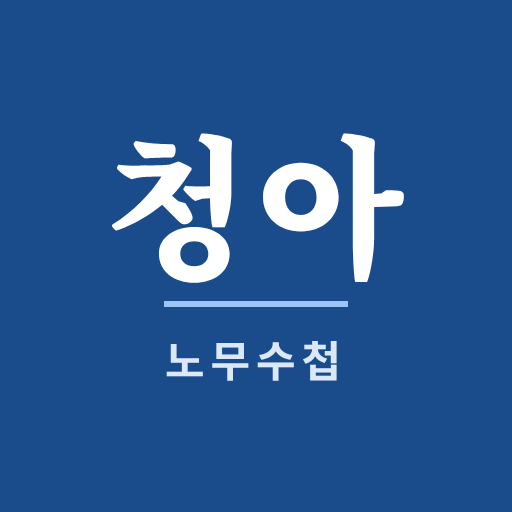
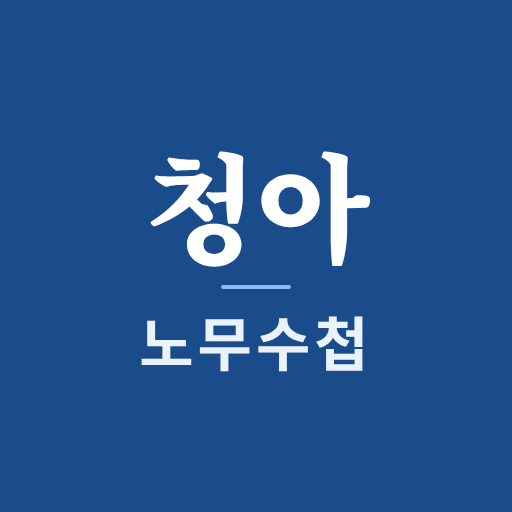
아이콘 비율 조정: 청아 축소, 노무수첩 확대
Claude-Session: https://claude.ai/code/session_01Uqf6varMtPearUrYnXMBFC

Changed region(s): [[0.2188, 0.25, 0.8125, 0.75]]

diff --git a/index.html b/index.html
@@ -11,15 +11,15 @@
 <meta name="apple-mobile-web-app-status-bar-style" content="black-translucent">
 <meta name="apple-mobile-web-app-title" content="청아 노무수첩">
 <link rel="manifest" href="manifest.webmanifest">
-<link rel="icon" type="image/png" sizes="32x32" href="icons/favicon-32.png?v=2">
-<link rel="apple-touch-icon" href="icons/apple-touch-icon.png?v=2">
+<link rel="icon" type="image/png" sizes="32x32" href="icons/favicon-32.png?v=3">
+<link rel="apple-touch-icon" href="icons/apple-touch-icon.png?v=3">
 <title>청아 노무수첩</title>
 <meta name="description" content="기준금액·계산기·지원금·행정해석을 한곳에. 청아노무법인">
 <meta property="og:type" content="website">
 <meta property="og:title" content="청아 노무수첩 | 청아노무법인">
 <meta property="og:description" content="기준금액·계산기·지원금·행정해석을 한곳에">
 <meta property="og:url" content="https://sagoclaim-tech.github.io/cheonga-labor/">
-<meta property="og:image" content="https://sagoclaim-tech.github.io/cheonga-labor/icons/icon-512.png?v=2">
+<meta property="og:image" content="https://sagoclaim-tech.github.io/cheonga-labor/icons/icon-512.png?v=3">
 <link rel="preconnect" href="https://fonts.googleapis.com">
 <link rel="stylesheet" href="https://fonts.googleapis.com/css2?family=Gowun+Batang:wght@700&family=IBM+Plex+Sans+KR:wght@400;500;600;700&family=IBM+Plex+Mono:wght@500;600&display=swap">
 <style>

diff --git a/sw.js b/sw.js
@@ -1,5 +1,5 @@
 /* 청아노무법인 앱 서비스워커: 화면과 기준 데이터는 항상 최신을 먼저 받고, 연결이 없으면 저장본을 씁니다. */
-const CACHE = "cheonga-v9";
+const CACHE = "cheonga-v10";
 const SHELL = ["./", "index.html", "data.json", "interp.json", "manifest.webmanifest", "icons/icon-192.png", "icons/icon-512.png", "icons/apple-touch-icon.png", "icons/favicon-32.png"];
 self.addEventListener("install", e => { e.waitUntil(caches.open(CACHE).then(c => c.addAll(SHELL)).then(() => self.skipWaiting())); });
 self.addEventListener("activate", e => { e.waitUntil(caches.keys().then(ks => Promise.all(ks.filter(k => k !== CACHE).map(k => caches.delete(k)))).then(() => self.clients.claim())); });
